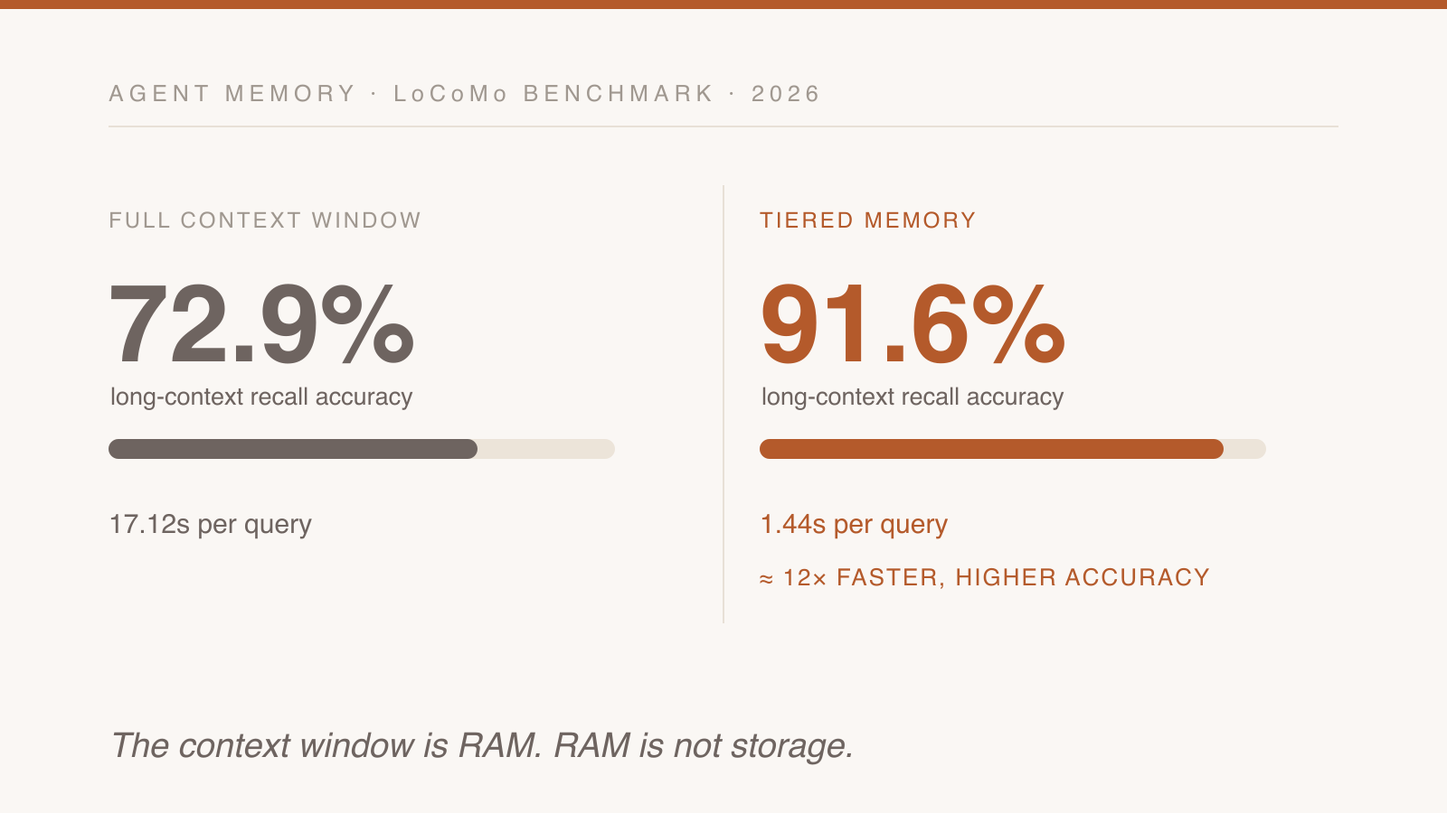
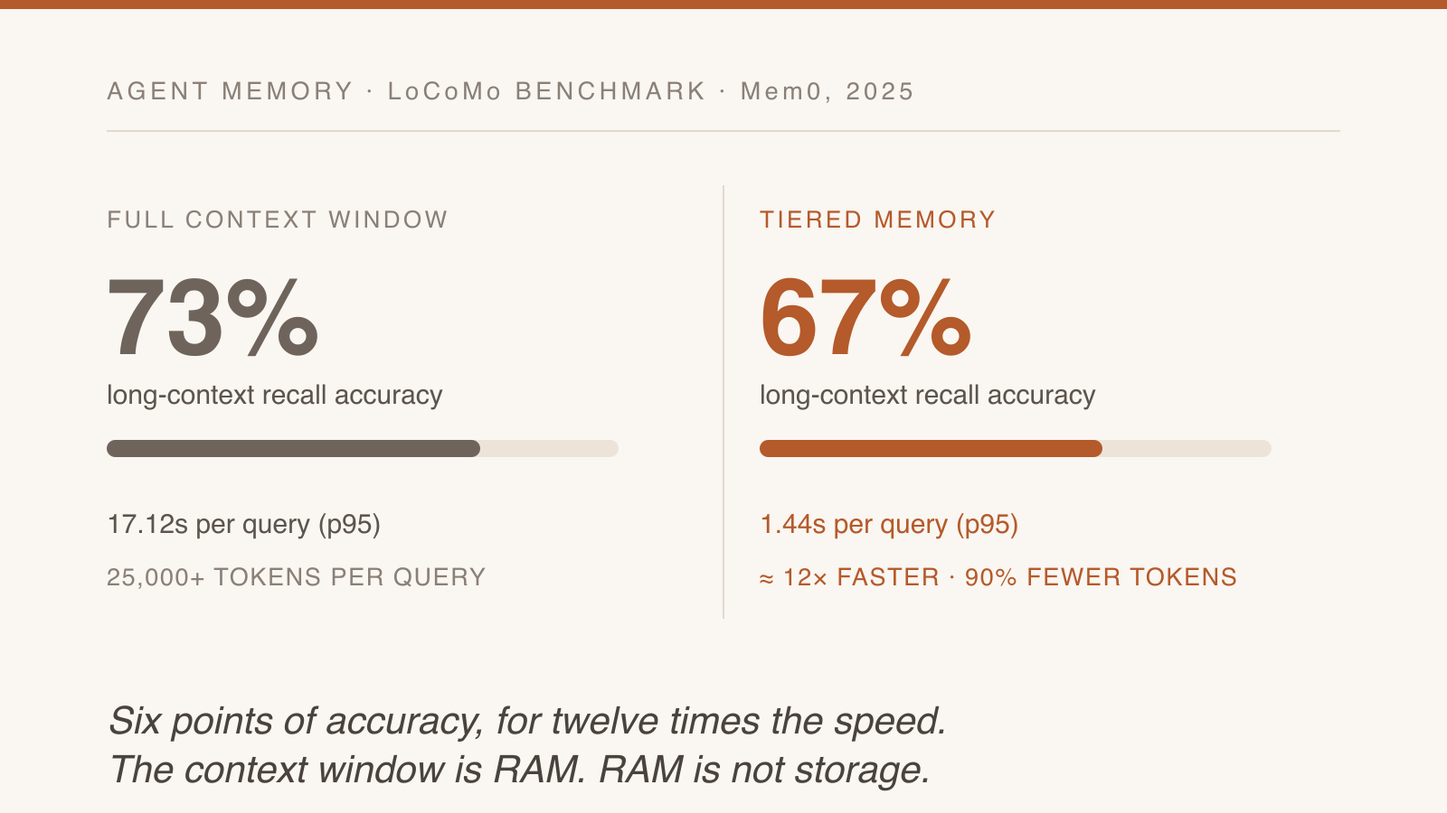
Rebrand to Solve Canada, publish 4 posts, add 12 images
Site: Solve Canada is the reporting layer across any city's systems, in
seven cities, over three million assets. Not 311-only, not accountability
first. SolveTO kept wherever it means the Toronto product. Adds the
experience statement, absent sitewide, and fixes about.md contradicting it
with "ten years" twice. Renames _projects/solveto.md to solve-canada.md
with a redirect at the old URL. Splash printed TORONTO twice from a
hardcoded duplicate line. Adds the About portrait.

Posts: publishes agent-memory-is-ram, what-breaks-before-production,
fifty-one-percent-and-ten, not-acceptable, on their original dates.

Fact-check corrections before publishing:
- agent-memory-is-ram had its central benchmark inverted. Claimed tiered
  memory hits 91.6% vs full-context 72.9%. arXiv 2504.19413 says the
  reverse: full-context scores highest (~73%), Mem0 tiered ~67%. The 72.9
  was Mem0's own open-domain sub-score; 91.6 appears nowhere. Rewritten as
  the real trade, six points of accuracy for 12x speed and 90% fewer
  tokens. Latency relabelled as p95. Chart rebuilt.
- Cut two unsourced numbers from the same post (20% churn, 15% SLA).
- "40 to 62 percent" of AI code flawed corrected to 45 to 62 (Veracode).
- Dropped "with no rise in production incidents" from the governance claim
  in two posts; sources support the effort cut, not that tail.
- not-acceptable: "ten stylesheets" corrected to seven.

Editor's notes on six older posts where SolveTO meant the whole platform.
[…]

diff --git a/_layouts/home.html b/_layouts/home.html
@@ -17,7 +17,7 @@ layout: default
       <span>Rails + AI</span>
       <span>Civic & SMB</span>
     </div>
-    <p class="hero-desc reveal-child">I build Rails apps that solve a specific problem for a specific person. <a href="https://solveto.ca">SolveTO</a> is now live across Toronto, Mississauga, and Milton, mapping over 1 million civic assets and turning a phone photo into a real 311 report. <a href="/projects/stl-agent/">STL Agent</a> is helping GTA contractors stop losing $50,000+ a year to slow follow-up. Both Rails. Both running today.</p>
+    <p class="hero-desc reveal-child">I have spent more than 20 years building software, and I build Rails apps that solve a specific problem for a specific person. <a href="https://solvecanada.ca">Solve Canada</a> is now live in seven Canadian cities, mapping over three million pieces of public infrastructure and turning a phone photo into a report the right department can act on. <a href="/projects/stl-agent/">STL Agent</a> is helping GTA contractors stop losing $50,000+ a year to slow follow-up. Both Rails. Both running today.</p>
   </div>
 </section>
 
@@ -39,7 +39,7 @@ layout: default
     <p class="section-label reveal-child">What I do</p>
     <h2 class="narrative-heading reveal-child">I build products that solve one specific problem.</h2>
     <div class="narrative-body reveal-child">
-      <p>Toronto's 311 system handles 600 service types and costs the city $11–$16 per call. Fewer than 20% of residents use the app. So I built <a href="https://solveto.ca">SolveTO</a> — snap a photo, AI writes the report, the city and your councillor get notified in 10 seconds. It is live, mapping every catch basin, hydrant, and traffic signal across the 25 wards.</p>
+      <p>Toronto's 311 system handles 600 service types and costs the city $11–$16 per call, and fewer than 20% of residents use the app. It was also only ever one of the doors, because the same city owns the parks, the schools, the transit stops, and the water. So I built <a href="https://solvecanada.ca">Solve Canada</a>, starting in Toronto as SolveTO. Snap a photo of anything the city owns, AI writes the report, the right department and your councillor get notified in 10 seconds. It is live in seven cities, mapping every catch basin, hydrant, and traffic signal in each of them.</p>
       <p>The average GTA contractor takes 42 hours to reply to a quote request. The customer who responds first wins 78% of the time. So I built <a href="/projects/stl-agent/">STL Agent</a> — a Telegram-native lead system that pings the contractor in under 60 seconds and lets the AI start the conversation. So they stay on the roof, not at a laptop.</p>
       <p>Same playbook each time: find the broken thing, talk to the person living with it, build the thing that actually fixes it. Rails + AI is just the toolbox.</p>
     </div>
@@ -53,7 +53,7 @@ layout: default
     <p class="section-label reveal-child">How I work</p>
     <h2 class="narrative-heading reveal-child">One developer. Real products. AI as a multiplier, not a substitute.</h2>
     <div class="narrative-body reveal-child">
-      <p>SolveTO went from idea to <strong>three cities and over 1 million mapped assets</strong> in a few months — built ~90% with AI-assisted development on Rails 8. Not a prototype. A live app with real users, real councillors and city departments being scored, and real journalists writing about it.</p>
+      <p>Solve Canada went from idea to <strong>seven cities, over three million mapped assets, and over a thousand resident reports</strong> in months, built ~90% with AI-assisted development on Rails 8. Not a prototype. A live app with real users, real councillors and city departments being scored, and real journalists writing about it.</p>
       <p>What changed in the last two years is not what to build — it is how fast one person can build it. Expertise in the problem and execution are still the only hard parts. Code is the easy part now. <strong>That is the real edge: the developer who actually talks to the customer, then ships the solution the same week.</strong></p>
     </div>
     <a href="{{ '/work/' | relative_url }}" class="narrative-link reveal-child">See what I've built</a>

diff --git a/assets/css/main.css b/assets/css/main.css
@@ -1448,3 +1448,33 @@ ul.related-posts {
   .reveal .reveal-child { opacity: 1; transform: none; transition: none; }
   .currently-label::before, .availability::before { animation: none; }
 }
+
+/* ==========================================================
+   ABOUT PORTRAIT, photo beside the opening paragraph
+   ========================================================== */
+.about-intro {
+  display: flex;
+  align-items: flex-start;
+  gap: var(--space-md);
+  margin-bottom: var(--space-md);
+}
+
+.about-intro-photo {
+  flex: 0 0 168px;
+  width: 168px;
+  height: 168px;
+  border-radius: 50%;
+  object-fit: cover;
+  border: 3px solid var(--color-border);
+  cursor: default;
+}
+
+.about-intro-photo:hover { opacity: 1; }
+
+.about-intro-text > :first-child { margin-top: 0; }
+.about-intro-text > :last-child { margin-bottom: 0; }
+
+@media (max-width: 640px) {
+  .about-intro { flex-direction: column; align-items: center; text-align: left; gap: var(--space-sm); }
+  .about-intro-photo { flex-basis: 140px; width: 140px; height: 140px; }
+}

diff --git a/contact.html b/contact.html
@@ -23,7 +23,7 @@ description: "Two ways to reach me: Toronto contractors (Speed-to-Lead) or every
   <article class="contact-path contact-path--general">
     <p class="contact-path-label">Civic tech, SMB builds, media, hiring</p>
     <h2 class="contact-path-title">Send a message</h2>
-    <p>SolveTO partnerships, city or agency work, Rails + AI builds, speaking, or anything that is not an STL sales conversation — use the form below.</p>
+    <p>Solve Canada partnerships, city or agency work, Rails + AI builds, speaking, or anything that is not an STL sales conversation. Use the form below.</p>
   </article>
 </section>
 

diff --git a/projects-solveto-redirect.html b/projects-solveto-redirect.html
@@ -1,0 +1,16 @@
+---
+permalink: /projects/solveto/
+sitemap: false
+---
+<!DOCTYPE html>
+<html lang="en">
+<head>
+  <meta charset="utf-8">
+  <meta http-equiv="refresh" content="0; url=/projects/solve-canada/">
+  <link rel="canonical" href="/projects/solve-canada/">
+  <title>Redirecting to Solve Canada</title>
+</head>
+<body>
+  <p>SolveTO is the Toronto city brand inside <a href="/projects/solve-canada/">Solve Canada</a>.</p>
+</body>
+</html>

diff --git a/_layouts/default.html b/_layouts/default.html
@@ -29,7 +29,6 @@
     <div class="splash-inner">
       <p class="splash-name">{{ site.author.name }}</p>
       <p class="splash-role">{{ site.author.role }}</p>
-      <p class="splash-role"> Toronto</p>
     </div>
   </div>
   {% endif %}

diff --git a/_posts/2026-07-02-agent-memory-is-ram.md b/_posts/2026-07-02-agent-memory-is-ram.md
@@ -2,9 +2,8 @@
 layout: post
 title: "Your Agent's Context Window Is RAM. You're Filling It Like a Hard Drive."
 date: 2026-07-02
-description: "Most production agent failures trace back to one confusion: the context window is working memory, not persistent storage. The fix is a tiered memory design with an eviction policy you write before session one."
+description: "Stuffing everything into the context window is the most accurate way to run an agent and the least affordable. Six points of recall for twelve times the latency is a trade, and the eviction policy is where you make it."
 tags: [ai, agents, architecture, llm]
-published: false
 ---
 
 The first version of my Rapidfy agent forgot the instructions I gave it on line one. Not after a week, inside a single long session. The window filled up, and the rules I set at the start slid out of reach while the agent kept working like they were never there. That is the moment I stopped treating the context window as a place to keep things. I rebuilt the agent to forget on purpose. Every iteration starts with a fresh window now, and everything worth keeping lives on disk, in git and a progress file, not in the conversation.
@@ -19,11 +18,13 @@ It didn't forget. The fact is still in there. The architecture put it somewhere 
 
 Researchers call this lost in the middle. A model retrieves reliably from the start and the end of a long context and pays much less attention to the middle. The information is present, but long contexts have a retrieval gradient, and it drops off fast away from the edges. A complaint mentioned in turn three of a thirty-turn session sits in territory the model effectively ignores by turn fifteen. I wrote about the token side of this in [context window economics for AI agents](/context-window-economics-for-ai-agents/), where overhead crowds out room for reasoning. This is the other half. Even the tokens you keep are not equally visible.
 
-Mem0's 2026 LoCoMo benchmark puts numbers on the gap. The full-context baseline, where you put everything in the window and let the model sort it out, hit 72.9% accuracy on long-context recall at 17.12 seconds of latency per query. The tiered approach, working memory plus targeted retrieval from a store outside the window, hit 91.6% accuracy at 1.44 seconds. Higher accuracy, roughly twelve times faster, at a fraction of the token cost. The context window is still present in the tiered design. It just stopped being a filing cabinet for the whole conversation.
+Mem0's LoCoMo benchmark puts numbers on the trade, and the numbers are not the ones I expected. The full-context baseline, where you put everything in the window and let the model sort it out, scores highest on accuracy at roughly 73%. The tiered approach, working memory plus targeted retrieval from a store outside the window, comes in around 67%. Stuffing the window wins on accuracy. It wins by six points.
+
+Then you look at what those six points cost. Full context answers in 17.12 seconds at the 95th percentile and burns 25,000 or more tokens doing it. The tiered design answers in 1.44 seconds and spends under 7,000. Roughly twelve times faster, roughly a tenth of the bill, for six points of recall. And that ratio gets worse for the baseline on every turn you add, because its cost grows with the length of the conversation while the tiered one does not. The context window is still present in the tiered design. It just stopped being a filing cabinet for the whole conversation.
 
 The architecture behind that result has three tiers. Working memory is the context window, fast and expensive and wiped at session end, holding the current message, the immediate task state, and the last few tool calls. Recall memory is a searchable store outside the window, usually a vector database with recency weighting, holding summaries of past sessions and facts pulled from earlier interactions. Archival memory is long-term storage for documents and logs the agent rarely touches but cannot afford to lose. When the agent needs something old, it queries recall memory and gets a targeted answer back instead of the entire history.
 
-![Full context window versus tiered memory: 72.9% accuracy at 17.12s against 91.6% at 1.44s]({{ site.url }}/assets/images/posts/agent-memory-is-ram.png)
+![Full context window versus tiered memory: 73% accuracy at 17.12s against 67% at 1.44s, twelve times faster on a tenth of the tokens]({{ site.url }}/assets/images/posts/agent-memory-is-ram.png)
 
 This is the same move I make in [my Rapidfy harness](/7-patterns-for-long-running-agent-harnesses/), at a smaller scale. The progress file on disk is recall memory. Git is archival memory. The context window holds one feature at a time and nothing else, because an agent carrying ten features of history in its window builds the eleventh one worse.
 
@@ -31,6 +32,6 @@ The hard question is eviction. What leaves working memory, and when. The mistake
 
 The second decision is to write memory asynchronously by default. A write that blocks the response adds latency the user feels directly, and a session that saves to the persistent store before returning each answer feels slow in a way that's hard to trace from monitoring. Make the writes async and the agent answers while the save runs behind it. That is the difference between a system that feels like it's thinking and one that feels like it's waiting.
 
-The cost of getting this wrong is measurable. Customer churn rises about 20% in support cases where people have to re-explain themselves because the agent kept no memory of the last conversation. Fifteen percent of enterprise agent deployments hit SLA breaches from inconsistent outputs, and most of those trace back to the same root, a fact that was present in session one and invisible by session three because the window evicted it or buried it past the gradient.
+The cost of getting this wrong does not show up in a benchmark. It shows up as a customer explaining their situation for the third time, an agent losing the thread at a handoff, and a multi-step workflow that falls apart in the middle because a fact stated in session one was invisible by session three. The window evicted it, or buried it past the gradient. Either way the person on the other end concludes the thing is not paying attention, and they are right.
 
 Memory is now a first-class architectural concern. There is a benchmark for it, a research literature, and a growing set of memory systems built for agent workloads. Every agent that runs longer than a single session is a memory system with inference bolted on top, and the teams building the good ones design the memory layer before they write the first prompt. The models keep getting faster, but [the architecture is still the part you own](/what-are-you-building-while-ai-speeds-up/). The next agent you build will remember one thing and lose another on every single turn, whether you decided which or not. The only real choice is whether you wrote the eviction policy, or the window wrote it for you when it ran out of room.

diff --git a/_posts/2026-07-11-fifty-one-percent-and-ten.md b/_posts/2026-07-11-fifty-one-percent-and-ten.md
@@ -4,7 +4,6 @@ title: "Fifty-One Percent of the Code, Ten Percent of the Speed"
 date: 2026-07-11
 description: "AI writes half the code committed to GitHub now, and teams ship about ten percent faster. The code was never the slow part."
 tags: [ai, software-development, engineering, vibe-coding]
-published: false
 ---
 
 In early 2026 a number crossed a line that would have sounded like science fiction a few years earlier. 51% of all code committed to GitHub is now AI-generated or substantially AI-assisted. Machines write most of the code now. For me the number didn't read as a revolution. It read as a Tuesday, because most of the code I shipped this year I didn't type either. An agent wrote it inside a harness I built, and I reviewed what came out. The number that actually stopped me was the other one. System-level delivery velocity for software teams went up about 10% over the same stretch. Half the code is written by machines, and teams ship roughly a tenth faster. The writing was never the part that was slow.
@@ -13,7 +12,7 @@ That gap is the whole story. AI is fast at the task and slow to move the system,
 
 ![Fifty-one percent of the code, ten percent of the speed]({{ site.url }}/assets/images/posts/fifty-one-percent-and-ten.png)
 
-The stages that decide whether software ships safely are the same ones they were two years ago. Architecture, the decision about how twelve functions fit together before any of them get written, is still mine. Deployment configuration is still mine. Infrastructure context, the DNS and the SSL and the load balancer that the function knows nothing about, is still mine. Security review is still mine too, except now there is more of it, because the data on AI and security is getting worse instead of better. March 2026 alone produced 35 new CVEs traced to AI-generated code, up from 6 in January. Somewhere between 40 and 62 percent of AI-generated code ships with a security flaw in it. When the test is cross-site scripting, the model fails to prevent it 86% of the time.
+The stages that decide whether software ships safely are the same ones they were two years ago. Architecture, the decision about how twelve functions fit together before any of them get written, is still mine. Deployment configuration is still mine. Infrastructure context, the DNS and the SSL and the load balancer that the function knows nothing about, is still mine. Security review is still mine too, except now there is more of it, because the data on AI and security is getting worse instead of better. March 2026 alone produced 35 new CVEs traced to AI-generated code, up from 6 in January. Somewhere between 45 and 62 percent of AI-generated code ships with a security flaw in it, depending on whose test suite you run. When the test is cross-site scripting, the model fails to prevent it 86% of the time.
 
 The reason is structural, not a bug you can patch. A model writing a function makes it pass the test case in the prompt. It does not model the threat surface of the system the function is about to join, because that system was never in its context. The vulnerability doesn't come from bad code. It comes from missing context. The model does what you asked, correctly, and the result is dangerous in the place it actually runs. I wrote about [where verification has to live in a harness](/where-verification-actually-belongs-in-agent-harnesses/), and the short version is that the thing writing the code cannot be the thing that checks it.
 
@@ -25,6 +24,6 @@ The line I keep coming back to is that you can vibe code a demo, but you can't v
 
 The $4.7 billion that companies spent on vibe-coding tools in the last year is a real bet on developer speed. The 10% velocity gain is what the bet has paid back so far. That gap isn't the tools failing. It's the constraint sitting somewhere the tools don't reach. The constraint was coordination, architecture, and quality assurance before AI showed up, and AI made code generation faster while leaving all three exactly where they were.
 
-The teams posting real gains are not the ones running the best model. They are the ones who built the gates first. Organizations that put four controls in front of AI-generated code before it reaches production, automated security scanning, architecture review, test coverage parity, and traceability for what shipped, report 30 to 50 percent faster delivery with no rise in production incidents. The governance feels like drag while you're building. It's the reason the system holds once it's live. That is the same lesson I learned building a harness, where [the loop around the agent matters more than the agent](/7-patterns-for-long-running-agent-harnesses/).
+The teams posting real gains are not the ones running the best model. They are the ones who built the gates first. Organizations that put four controls in front of AI-generated code before it reaches production, automated security scanning, architecture review, test coverage parity, and traceability for what shipped, cut delivery effort by 30 to 50 percent. The governance feels like drag while you're building. It's the reason the system holds once it's live. That is the same lesson I learned building a harness, where [the loop around the agent matters more than the agent](/7-patterns-for-long-running-agent-harnesses/).
 
 51% is a real number, and it describes a real change in who writes the code. It does not describe a change in how fast working software reaches people, because writing the code was the one part that was already fast. The model changed the typing. The job, the part where code turns into a product people can trust, is still sitting exactly where it was, waiting for whoever is willing to do the work the model can't.

diff --git a/about.md b/about.md
@@ -2,16 +2,21 @@
 layout: page
 title: About
 permalink: /about/
-description: "Toronto-based product builder. I ship Rails apps that solve a specific problem for a specific person. Currently building SolveTO and STL Agent."
+description: "Toronto-based product builder with more than 20 years building software. I ship Rails apps that solve a specific problem for a specific person. Currently building Solve Canada and STL Agent."
 ---
 
-I'm Ahmed. I build Rails apps in Toronto that solve a specific problem for a specific person.
+<div class="about-intro" markdown="0">
+  <img class="about-intro-photo" src="{{ '/assets/images/ahmed-nadar.jpg' | relative_url }}" alt="Ahmed Nadar, photographed against the Toronto skyline" width="168" height="168" loading="eager" decoding="async">
+  <div class="about-intro-text">
+    <p>I'm Ahmed. I build Rails apps in Toronto that solve a specific problem for a specific person. I have spent more than 20 years building software, from interface design through to the systems underneath.</p>
 
-For ten years I have been doing the same thing: figuring out what a real human actually needs and turning it into working software. The tools changed. The work didn't. What did change is how fast one developer can now ship the thing — and how much that speed reshuffles who gets to build what.
+That whole time I have been doing the same thing: figuring out what a real human actually needs and turning it into something that works. The tools changed. The work didn't. What did change is how fast one developer can now ship the thing, and how much that speed reshuffles who gets to build what.
+  </div>
+</div>
 
 ## What I'm building right now
 
-**[SolveTO](https://solveto.ca)** — civic accountability now live across three cities: Toronto, Mississauga (SolveSAUGA), and Milton (SolveMILTON). Snap a photo of a pothole, broken streetlight, or graffiti — AI writes a proper 311-style report, the city and your councillor get notified, the report goes on a public map, and neighbors can vote and verify. **Over 1 million public assets mapped across three cities. One account that follows you across city lines. Real residents using it. Five media interviews in the first week.** Built ~90% with AI-assisted development on Rails 8.
+**[Solve Canada](https://solvecanada.ca)** is the reporting layer for any Canadian city. I started it in Toronto in January 2026, after watching a pothole on my own street go unreported for months because saying something took longer than ignoring it. It now runs in seven Canadian cities: Toronto, Mississauga, Milton, Kitchener, Waterloo, Ottawa, and Peterborough. Each city keeps its own front door, and **[SolveTO](https://solveto.ca)** is the Toronto one. It does not stop at 311 either, because the same city owns the parks, the schools, the transit stops, and the water. Point at any of it, take a photo, and AI writes a report the right department can act on, your councillor sees it, it lands on a public map, and neighbours can verify it. **Over three million pieces of public infrastructure across seven cities. Over a thousand reports filed since February. One account that follows you across city lines. Five media interviews in the first week.** Built ~90% with AI-assisted development on Rails 8.
 
 **[STL Agent](/projects/stl-agent/)** — speed-to-lead for GTA contractors. Average GTA contractor takes 42 hours to reply to a quote request. The customer who responds first wins 78% of the time. STL pings the contractor on Telegram in under 60 seconds, AI emails the customer back, and the whole CRM lives inside Telegram so the contractor stays on the roof. Currently booking 5 GTA contractors for white-glove install.
 
@@ -29,7 +34,7 @@ Every product on this page was built this way. From first conversation to live u
 
 ## What I believe
 
-Writing code stopped being the bottleneck. Understanding the problem is the only hard part now — and it has always been the only hard part. Knowing what to build, for whom, and why. That hasn't changed in ten years.
+Writing code stopped being the bottleneck. Understanding the problem is the only hard part now, and it has always been the only hard part. Knowing what to build, for whom, and why. That hasn't changed in twenty years.
 
 What changed: a single developer who actually talks to the user can now ship the fix the same week. That is the real edge. Not the AI tooling. Not the framework. The willingness to talk to the person, then build the small specific thing that helps them this Tuesday.
 

diff --git a/_projects/solve-canada.md b/_projects/solve-canada.md
@@ -1,0 +1,34 @@
+---
+layout: project
+title: Solve Canada
+description: "One reporting layer for any Canadian city. Point at anything the city owns, say what is wrong, and it reaches the right desk in under 30 seconds."
+link: https://solvecanada.ca
+featured: true
+order: 1
+status: "Live in 7 cities"
+---
+
+A pothole on my street in Toronto went unreported for months, mine included, because saying something took longer than living with it. The city fixes what gets reported. Almost nothing gets reported. That is most of the reason your street looks the way it does, and it is the same in every city I have looked at since.
+
+Solve Canada is the reporting layer that sits on top of whatever a city already runs. It is not a 311 replacement, and 311 was never the only door. A city owns roads and catch basins, but it also owns parks, schools, fire stations, transit stops, town facilities, parking lots, street furniture, and water infrastructure, each with its own department and often its own form. A resident should not have to know which system owns the thing in front of them before they are allowed to say anything about it.
+
+<figure class="project-showcase project-showcase--single">
+  <img src="{{ '/assets/images/posts/og-toronto-deserves-better-than-311.png' | relative_url }}" alt="Solve Canada map connecting resident reports with a city's own open data" width="1200" height="630" loading="lazy" decoding="async">
+  <figcaption>Every asset a city publishes, on one map, and every one of them reportable.</figcaption>
+</figure>
+
+## The Problem
+
+Toronto's 311 system handles 600+ service types and costs the city **$11 to $16 per phone call**, and fewer than 20% of residents use the app. The form assumes you already know how city departments are organized, which category your issue falls under, and how to write a formal complaint. Every city I have launched in since has some version of the same gap. The crews are doing the work. The friction sits earlier, in the gap between a resident noticing something and having any fast way to say so.
+
+## How It Works
+
+You spot something and take a photo. AI reads the image, writes a proper report, and attaches the location and the infrastructure around it, so what arrives at the city is specific instead of vague. Specific reports get acted on. The report goes to the right department and to your ward councillor, and it also lands on a public map where neighbours can see it, verify it, and watch its status change. When it gets fixed, you find out. That is the loop most reporting systems never close.
+
+## What Makes It Different
+
+The platform starts full instead of empty. Before a single resident touches a new city, it already knows that city's roads, parks, schools, hydrants, catch basins, transit stops, and facilities, pulled from the city's own open data. Over three million pieces of public infrastructure are on the map across seven cities, with wards and boundaries integrated so you can see what is happening on your street and in your ward.
+
+It also does not stop at the city line. One account, one login, one report history that works in Toronto, Mississauga, Milton, Kitchener, Waterloo, Ottawa, and Peterborough. Every city keeps its own name and its own front door, and **[SolveTO](https://solveto.ca)** is the Toronto one, but underneath it is one system. Residents have filed over a thousand reports on it since February.
+
+The hard part was never one more city. It was building one platform that does not start over every time a resident moves or a new town comes online.

diff --git a/_posts/2026-07-07-what-breaks-before-production.md b/_posts/2026-07-07-what-breaks-before-production.md
@@ -4,7 +4,6 @@ title: "Most AI projects fail before the model is the problem"
 date: 2026-07-07
 description: "80% of AI projects fail to deliver, and almost none of it is the model. They lose the question they started with, usually within six months of the demo."
 tags: [ai, production, engineering, strategy]
-published: false
 ---
 
 A demo won the room in twenty minutes. The pilot had cut inbound calls by thirty percent in a controlled test, the number was on the screen, and everyone in the room agreed that number was the point. The budget got approved on a Tuesday. Then the same project spent six months forgetting why the room said yes. By spring the team was arguing about which prompt framework to standardize on, and by summer the argument had moved to vector databases. Nobody in either meeting said the words "thirty percent." The goal was never cancelled. It just stopped showing up. I have sat inside that drift, and it kills AI projects with nothing wrong with the model.
@@ -25,6 +24,6 @@ This happens when a team treats deployment as the finish line. A working demo pr
 
 The fix for both failure modes is the same, and it is boring. Build the evaluation pipeline before anything ships. Not a testing phase bolted on at the end, but a set of labeled cases that score real output against the real task, written before the first model version is chosen. Once that exists, every later decision has something to check against. The moment the demo works, the question turns from "can this do the task" into "what does the eval score on these fifty edge cases, and how does that connect to the thirty-percent target."
 
-Teams that put the full set of governance gates in place before shipping report 30 to 50 percent faster delivery with no rise in production incidents. The gates do not slow the project down. They prevent the rework that comes from a system that won the demo and broke three weeks into production. I made the same argument about [context window economics](/context-window-economics-for-ai-agents/): the cheap discipline you pay for up front is what buys you room to move later.
+Teams that put the full set of governance gates in place before shipping cut delivery effort by 30 to 50 percent. The gates do not slow the project down. They prevent the rework that comes from a system that won the demo and broke three weeks into production. I made the same argument about [context window economics](/context-window-economics-for-ai-agents/): the cheap discipline you pay for up front is what buys you room to move later.
 
 The model is the least interesting variable in most of these failures. Context windows are longer, inference is cheaper, and the frontier models I can reach today are better than anything from a year ago, and none of it touches the pattern. It is the same point I keep coming back to about [what you build while the tools get faster](/what-are-you-building-while-ai-speeds-up/): a better model does not solve the problem you actually have. Projects fail because they lose the question. Every AI project you are running has one number that justified it, and one person whose job is to keep showing up and measure against it. If you cannot name both today, the project is already drifting, and no model on the roadmap will pull it back.

diff --git a/_posts/2026-02-23-where-verification-actually-belongs-in-agent-harnesses.md b/_posts/2026-02-23-where-verification-actually-belongs-in-agent-harnesses.md
@@ -55,7 +55,7 @@ Geoffrey Huntley, creator of the [Ralph loop](https://ghuntley.com/ralph), takes
 
 His argument has three parts.
 
-**1. Context window cost.** MCP servers consume tokens just by being loaded, tool definitions, schemas, protocol overhead. Puppeteer adds base64 screenshot data on top of that. Huntley found that MCP servers can drop usable context from ~176k to ~120k tokens. That's 30% of the agent's reasoning capacity gone before it writes a line of code. (I break down the full token budget in [Part 3](/2026/02/24/context-window-economics-for-ai-agents).)
+**1. Context window cost.** MCP servers consume tokens just by being loaded, tool definitions, schemas, protocol overhead. Puppeteer adds base64 screenshot data on top of that. Huntley found that MCP servers can drop usable context from ~176k to ~120k tokens. That's 30% of the agent's reasoning capacity gone before it writes a line of code. (I break down the full token budget in [Part 3](/context-window-economics-for-ai-agents/).)
 
 **2. Role confusion.** An agent that codes *and* visually inspects is doing two jobs in one context window. It's like having a developer also be the QA tester. Same screen, same time, half their desk taken up by QA tools.
 
@@ -65,7 +65,7 @@ His argument has three parts.
 
 I tried it. Here's what happened.
 
-Each screenshot costs roughly 3,000 to 6,000 tokens depending on page size. Over multiple iterations of verifying key routes, this adds up fast, especially before you count the MCP overhead itself, tool schemas, protocol definitions, capability negotiation. Every MCP server you load eats context just by existing, whether you call its tools or not. ([Part 3](/2026/02/24/context-window-economics-for-ai-agents) has the full token math.)
+Each screenshot costs roughly 3,000 to 6,000 tokens depending on page size. Over multiple iterations of verifying key routes, this adds up fast, especially before you count the MCP overhead itself, tool schemas, protocol definitions, capability negotiation. Every MCP server you load eats context just by existing, whether you call its tools or not. ([Part 3](/context-window-economics-for-ai-agents/) has the full token math.)
 
 By iteration 5, the agent started forgetting parts of its instructions. By iteration 8, it was re-implementing features it had already built. The context window was so full of screenshot data that the actual task instructions were getting pushed out.
 

diff --git a/_posts/2026-07-28-not-acceptable.md b/_posts/2026-07-28-not-acceptable.md
@@ -4,7 +4,6 @@ title: "Not Acceptable"
 date: 2026-07-28
 description: "A resident told me my civic platform rejected his browser. The cause was a Rails default I had never read, and five of the six reasons it gave turned out not to apply to my app."
 tags: [rails, ruby, engineering, accessibility, civic-tech, debugging]
-published: false
 ---
 
 The chair of a residents' association emailed me yesterday to say he had tried to visit the platform I build and could not get in. He was gracious about it and assumed the fault was his. "My browsers were Not Acceptable," he wrote. "Probably too old, I don't keep up with OS and browser updates."
@@ -34,13 +33,13 @@ So I checked what the app actually serves.
 CSS nesting and `:has` were the easy ones. Pull down every stylesheet the page loads and count.
 
 ```bash
-for f in application blog playbook pulse solve_canada tailwind wrapped; do
+for f in application blog dashboard map public reports tailwind; do
   curl -s "https://example.ca/assets/$f.css" -o c.css
   echo "$f  :has=$(grep -o ':has(' c.css | wc -l)  nest=$(grep -oE '\{[^{}]*&' c.css | wc -l)"
 done
 ```
 
-CSS nesting: zero occurrences, across all ten stylesheets, about 630KB of compiled CSS. The build tool had already flattened every nested rule into plain selectors, which is what build tools are for. The gate was protecting a feature the browser never sees.
+CSS nesting: zero occurrences, across all seven stylesheets, about 630KB of compiled CSS. The build tool had already flattened every nested rule into plain selectors, which is what build tools are for. The gate was protecting a feature the browser never sees.
 
 CSS `:has()`: ten rules in the whole 630KB. Ten. And unsupported selectors are not a failure mode in CSS, they are the specification. A browser that does not understand `:has()` skips those rules and renders everything else. Ten skipped rules out of thousands is a cosmetic difference nobody would report as a bug.
 
